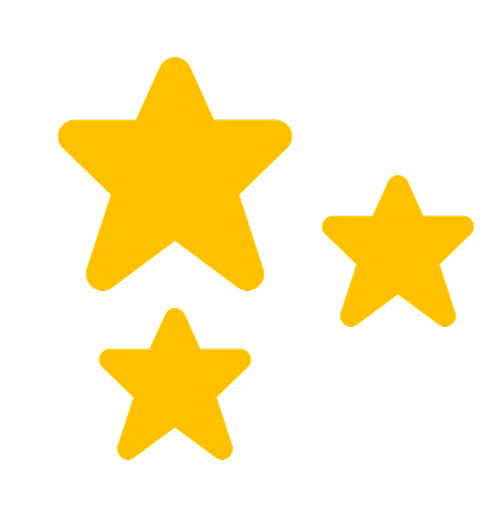
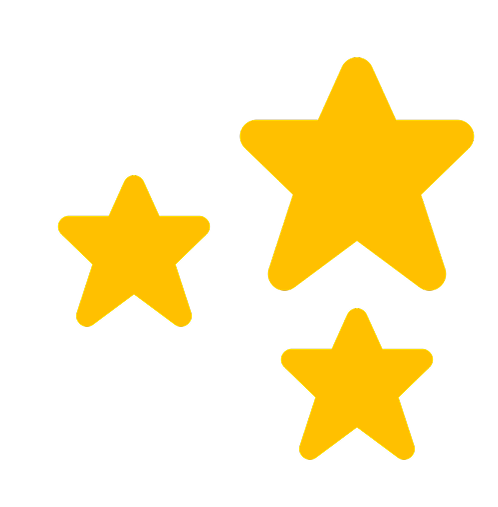
add starts in rewards section

diff --git a/src/app/rewards/page.tsx b/src/app/rewards/page.tsx
@@ -24,6 +24,10 @@ import CaptainsTriumphsBadge from '@/Components/images/brown.png';
 import TripleImpactBadge from '@/Components/images/brown.png';
 import ChartTopperBadge from '@/Components/images/brown.png';
 
+// Decorative images
+import LeftStar from '@/Components/images/leftstart.png';
+import RightStar from '@/Components/images/rightstar.png';
+
 // --- Interfaces ---
 interface User {
   id: string;
@@ -420,46 +424,92 @@ const BadgeCard = ({ id, title, description, image, color, count, unlocked, prog
             position: 'relative',
             display: 'flex',
             justifyContent: 'center',
-            alignItems: 'center',
+            alignItems: 'flex-start',
             height: CARD_DIMENSIONS.image,
-            width: CARD_DIMENSIONS.image,
+            width: '100%',
+            gap: 0,
+            mt: -1,
           }}
         >
-          <Image
-            src={image}
-            alt={title}
-            height={CARD_DIMENSIONS.image.md}
-            width={CARD_DIMENSIONS.image.md}
-            style={{
-              height: '100%',
-              width: '100%',
-              objectFit: 'contain',
-              objectPosition: 'center center',
-              filter: unlocked ? 'none' : 'grayscale(1)',
-              marginTop: 17
-            }}
-          />
-          {/* XP value on medal */}
+          {/* Left Star - Only show when unlocked */}
+          {unlocked && (
+            <Image
+              src={LeftStar}
+              alt="Left Star"
+              width={25}
+              height={25}
+              style={{
+                objectFit: 'contain',
+                filter: 'none',
+                marginTop: '23px',
+                marginRight: '-10px',
+              }}
+            />
+          )}
+          
+          {/* Main Badge */}
           <Box
             sx={{
-              position: 'absolute',
-              bottom: 8,
-              left: '50%',
-              transform: 'translateX(-50%)',
-              background: 'transparent',
-              color: unlocked ? '#B41E1E' : '#747474',
-              borderRadius: '50%',
-              width: 30,
-              height: 30,
+              position: 'relative',
               display: 'flex',
-              alignItems: 'center',
               justifyContent: 'center',
-              fontSize: '0.8rem',
-              fontWeight: 700,
+              alignItems: 'center',
+              height: CARD_DIMENSIONS.image,
+              width: CARD_DIMENSIONS.image,
             }}
           >
-            {xp}
+            <Image
+              src={image}
+              alt={title}
+              height={CARD_DIMENSIONS.image.md}
+              width={CARD_DIMENSIONS.image.md}
+              style={{
+                height: '100%',
+                width: '100%',
+                objectFit: 'contain',
+                objectPosition: 'center center',
+                filter: unlocked ? 'none' : 'grayscale(1)',
+                marginTop: 17
+              }}
+            />
+            {/* XP value on medal */}
+            <Box
+              sx={{
+                position: 'absolute',
+                bottom: 8,
+                left: '50%',
+                transform: 'translateX(-50%)',
+                background: 'transparent',
+                color: unlocked ? '#B41E1E' : '#747474',
+                borderRadius: '50%',
+                width: 30,
+                height: 30,
+                display: 'flex',
+                alignItems: 'center',
+                justifyContent: 'center',
+                fontSize: '0.8rem',
+                fontWeight: 700,
+              }}
+            >
+              {xp}
+            </Box>
           </Box>
+          
+          {/* Right Star - Only show when unlocked */}
+          {unlocked && (
+            <Image
+              src={RightStar}
+              alt="Right Star"
+              width={25}
+              height={25}
+              style={{
+                objectFit: 'contain',
+                filter: 'none',
+                marginTop: '23px',
+                marginLeft: '-10px',
+              }}
+            />
+          )}
         </Box>
       </Box>
 
